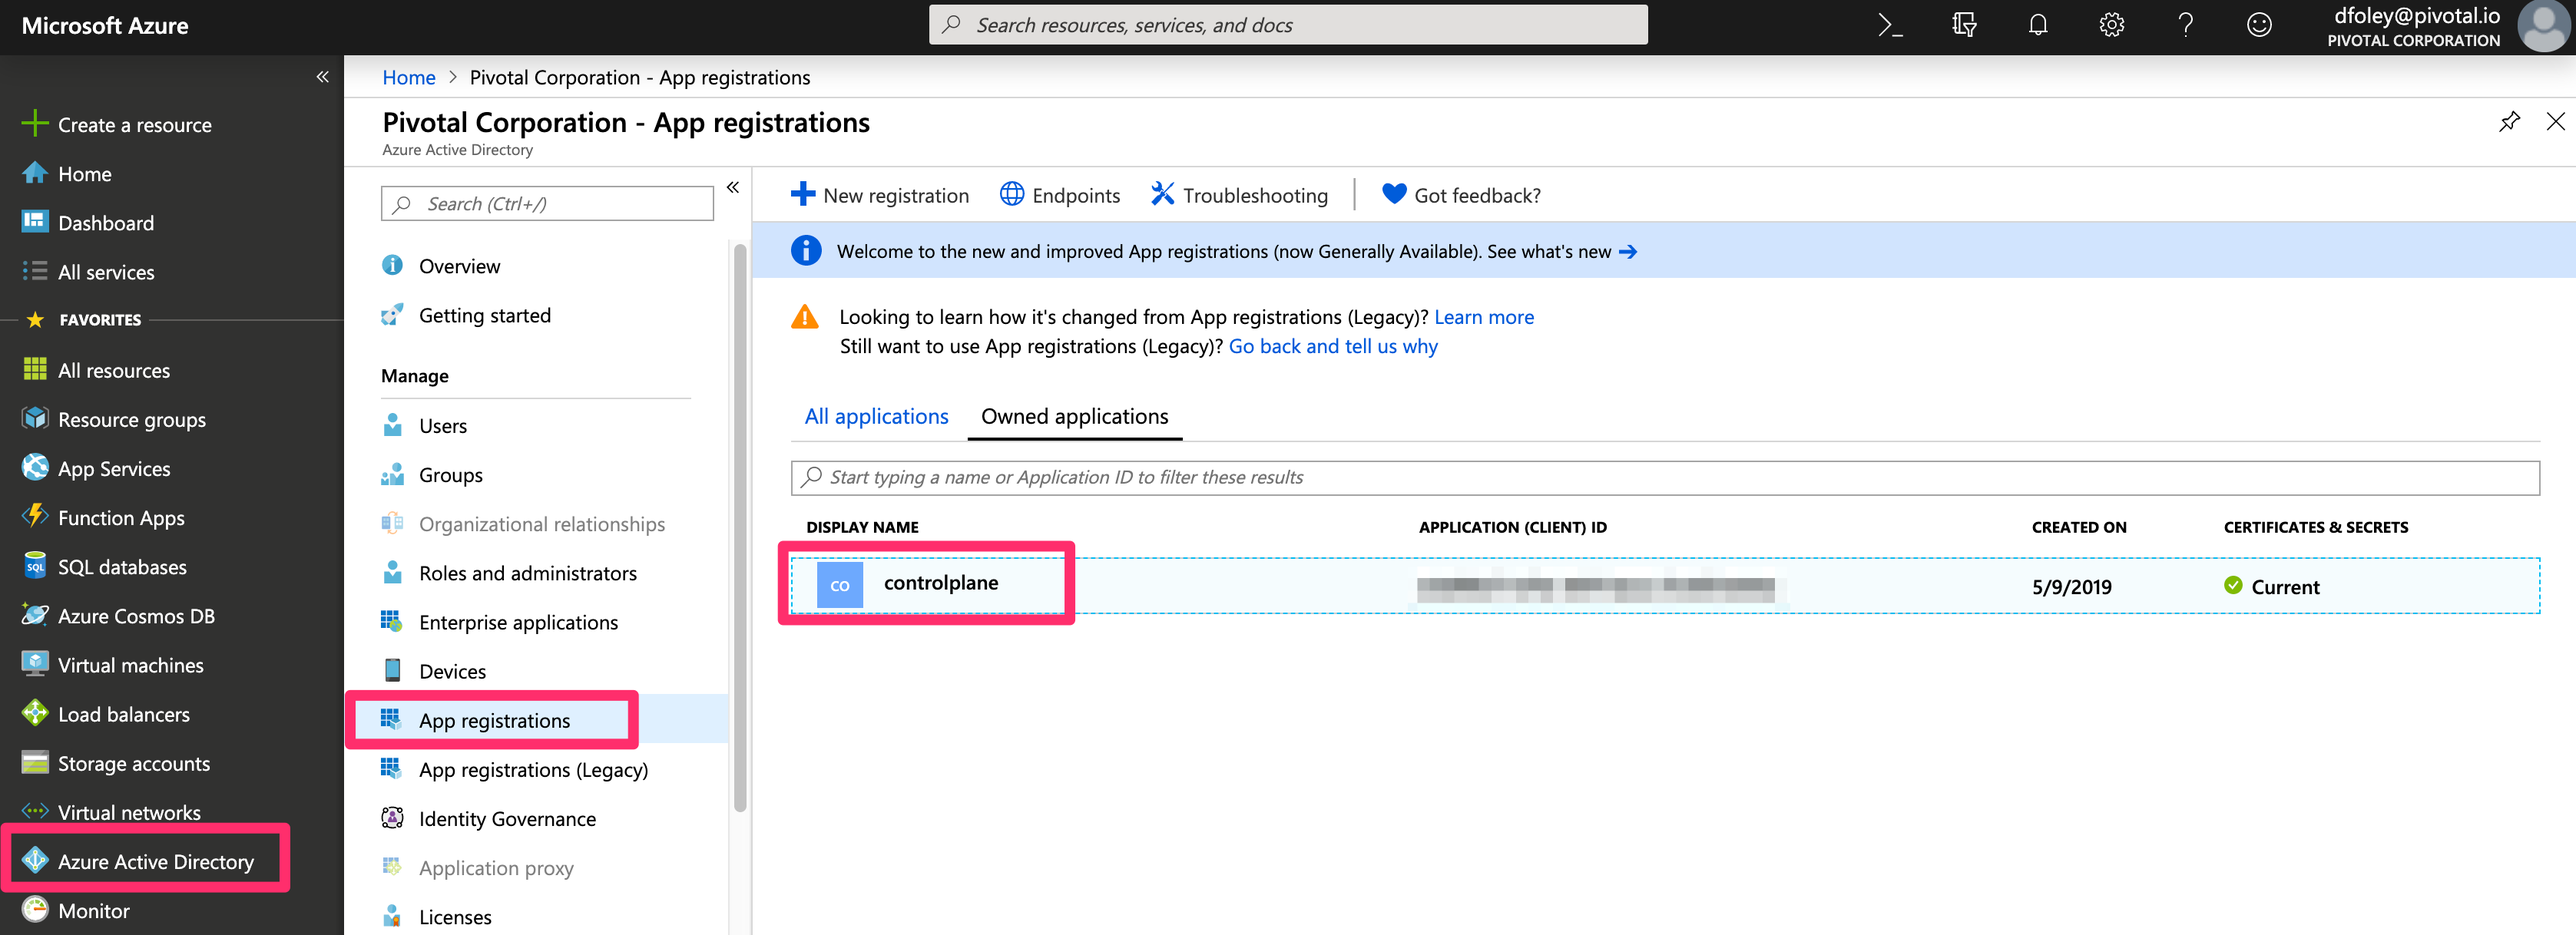
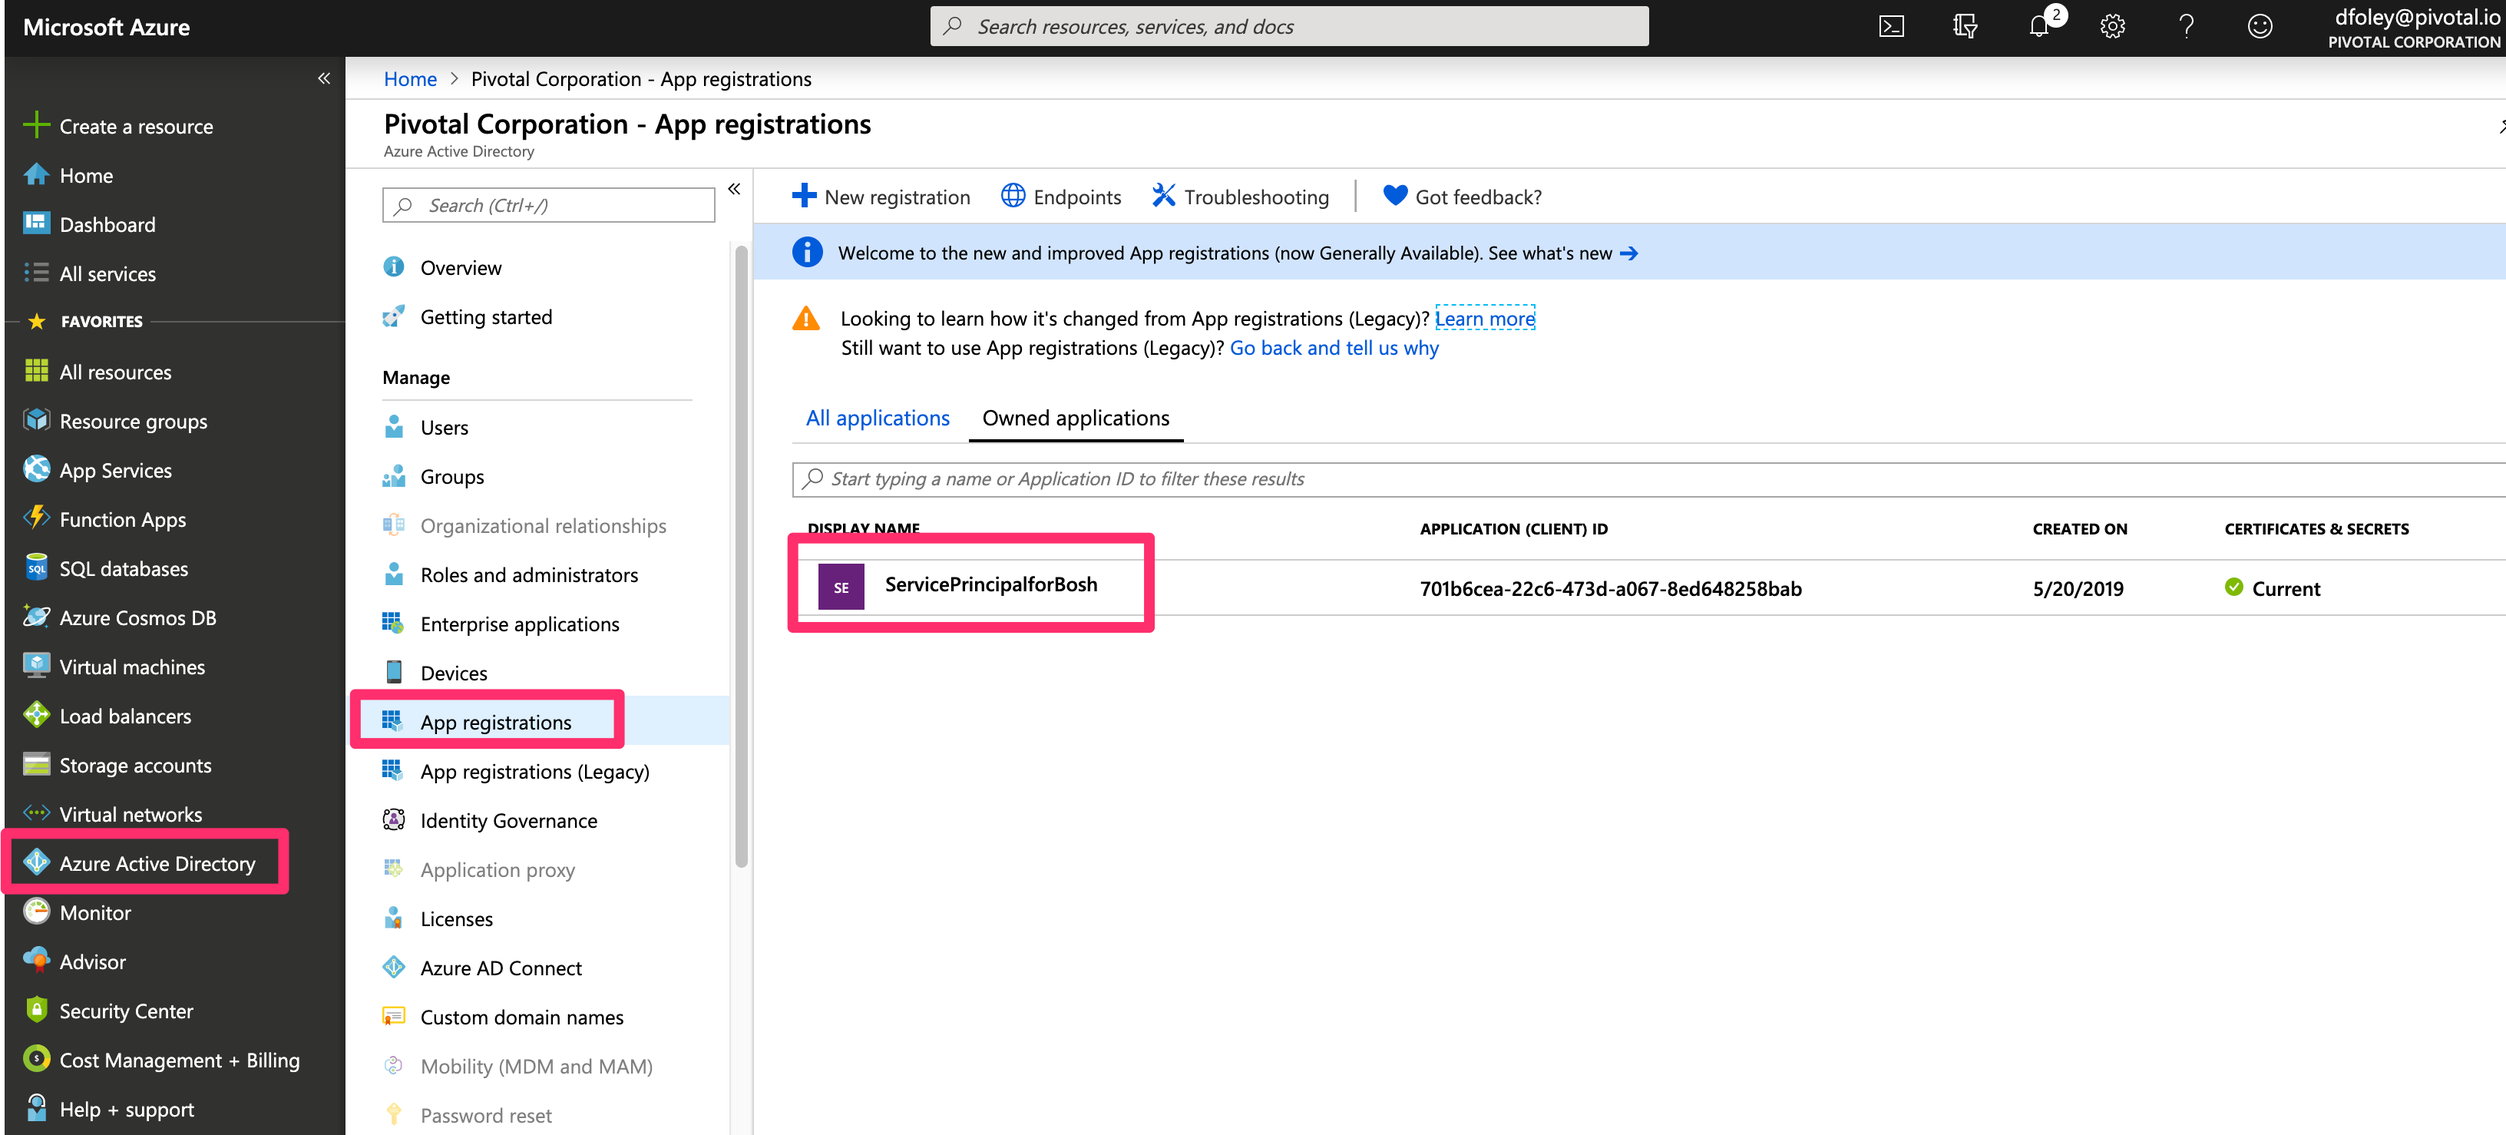
Added lab to connect to concourse both via UI and fly

diff --git a/README.md b/README.md
@@ -3,18 +3,22 @@ Update: May 9, 2019
 
 ## Introduction
 
-This workshop will walk you through the process of deploying **Pivotal Cloud Foundry (PCF)** on **Microsoft Azure**. We will stand up **Concourse** using **Pivotal Control Plane** and deploy PCF using **Platform Automation**.
+This workshop will walk you through the process of deploying **Pivotal Cloud Foundry (PCF)** on **Microsoft Azure**. We will stand up **Concourse** using **Pivotal Control Plane** and deploy PCF using **Platform Automation**. For complete documentation check out [Pivotal Control Plane](https://control-plane-docs.cfapps.io/)
 
 ***To log issues***, click here to go to the [github](https://github.com/dfoleypivotal/azure-platform-automation-example/issues) repository issue submission form.
 
 ## Objectives
 
 - [Install Pivotal Control Plane](#install)
+- [Login to Concourse](#concourse)
 
 ## Required Artifacts
 
 - The following lab requires a Microsoft Azure account.
 - A registered domain name is required to deploy PCF.
+- [Terraform](https://www.terraform.io/downloads.html)
+- [OM CLI](https://github.com/pivotal-cf/om)
+- [BOSH CLI](https://github.com/cloudfoundry/bosh-cli/releases)
 
 <a id="install"></a>
 
@@ -22,7 +26,7 @@ This workshop will walk you through the process of deploying **Pivotal Cloud Fou
 
 ### **STEP 1**: Clone Terraform template repository
 
-- Open a terminal window and change to working directory. For documentation working directory location will be /Users/dfoley/development/Azure.
+- Open a terminal window and change to working directory. For documentation, working directory location will be `/Users/dfoley/development/Azure`.
 
 ```bash
 cd /Users/dfoley/development/Azure
@@ -56,42 +60,28 @@ az account list
 
 **Note:** Copy **Id** an **Tenant Id** as these values will be used later in the lab.
 
-- To create the automation account, you need **az-automation**. You can use brew or go to the [releases](https://github.com/genevieve/az-automation/releases) and get the necessary binary.
+- Create Service Account for Bosh. For more details please view [Azure Documentation](https://docs.microsoft.com/en-us/cli/azure/ad/sp?view=azure-cli-latest)
 
 ```bash
-brew tap genevieve/tap
-brew install az-automation
+az ad sp create-for-rbac --name ServicePrincipalforBosh
 ```
 
-![](images/image3.png)
+![](images/image2.5.png)
 
-- Run the following command. Replace **`<your subscription id>`** with your **subscription id** and create a unique **`identifier-uri`**.
 
-```bash
-az-automation \
-  --account <your subscription id> \
-  --identifier-uri http://example.com \
-  --display-name controlplane \
-  --credential-output-file controlplane-credentials.tfvars
-  ```
-
-![](images/image4.png)
-
-- If you want to verify that the service principal was create you can login to the Azure Console. Click **Azure Active Directory** then **App registrations** and you will see the new **controlplane** application was created.
+- If you want to verify that the service principal was create you can login to the Azure Console. Click **Azure Active Directory** then **App registrations** and you will see the new **ServicePrincipalforBosh** application was created.
 
     ![](images/image5.png)
 
 ### **STEP 3**: Pave IaaS using Terraform
 
-- Next step
-
-- Using the values from the file **controlplane-credentials.tfvars** populate the **terraform.tfvars** file with the content below.
+- Using the output from the previous step create and populate the **terraform.tfvars** file with the content below.
 
 ```bash
-subscription_id = "some-subscription-id"
-tenant_id       = "some-tenant-id"
-client_id       = "some-client-id"
-client_secret   = "some-client-secret"
+subscription_id = "Your Subscription Id"
+tenant_id       = "Your Tenant ID"
+client_id       = "appId from previous call"
+client_secret   = "password from previous call"
 
 env_name              = "controlplane"
 ops_manager_image_uri = "https://opsmanagerwestus.blob.core.windows.net/images/ops-manager-2.4-build.192.vhd"
@@ -213,35 +203,6 @@ bosh upload-release uaa-release-*.tgz
 
 ![](images/image17.png)
 
-- Add a custom vm extension that includes details of your IAAS specific load balancer configuration.
-
-- Create a vars file called **vm-extension-vars.yml** with the following content:
-
-```vi
----
-"control-plane-lb": controlplane-lb
-```
-
-- Create a config file called **vm-extension.yml**:
-
-```vi
-vm-extension-config:
-  name: control-plane-lb
-  cloud_properties:
-   security_group: controlplane-plane-security-group
-   load_balancer: ((control-plane-lb))
-```
-
-- Create and apply the custom extension with om
-
-```bash
-om --skip-ssl-validation create-vm-extension \
-  --config vm-extension.yml \
-  --vars-file vm-extension-vars.yml
-
-om --skip-ssl-validation apply-changes
-```
-
 - Retrieve the Control Plane domain and availability zones from Terraform.
 
 ```bash
@@ -253,11 +214,11 @@ export CONTROL_PLANE_ROOT_DOMAIN="$(terraform output control_plane_domain)"
 ```vi
 ---
 external_url: https://plane.pcfcontrolplane.<your domain>
-persistent_disk_type: 10240
-vm_type: Standard_DS2_v2
+persistent_disk_type: 1048576
+vm_type: Standard_F4s
 azs: ["null"]
 network_name: control-plane
-wildcard_domain: "*.pcfcontrolplane.<your domain>"
+wildcard_domain: "plane.pcfcontrolplane.<your domain>"
 uaa_url: https://uaa.pcfcontrolplane.<your domain>
 uaa_ca_cert: |
   $(credhub get -n /p-bosh/control-plane/control-plane-tls -k certificate | awk ‘{printf “%s\r\n  “, $0}’)
@@ -281,6 +242,81 @@ bosh deploy -d control-plane control-plane-*.yml \
 ```
 
 ![](images/image18.png)
+
+
+- Run the following command to verify that the deployment instances are running:
+
+```bash
+bosh instances -d control-plane
+```
+
+![](images/image19.png)
+
+<a id="concourse"></a>
+
+## Login to Control Plane
+
+### **STEP 6**: Login to Control Plane UI
+
+- You should also be logged into credhub if you have used the **om bosh-env eval** line from above. This allows you to easily get the credential we need to test the login of our control-plane.
+
+```bash
+credhub get -n $(credhub find | grep uaa_users_admin | awk '{print $3}')
+```
+
+![](images/image20.png)
+
+- From any browser, access Concourse UI using URL defined by:
+
+```bash
+echo https://"$(terraform output control_plane_domain)"
+```
+
+![](images/image21.png)
+
+![](images/image22.png)
+
+- CLick **login** in the upper right hand corner.
+
+- Enter **admin** for the `username`, and the password retrieved from Credhub as the `password` and click **SIGN IN**.
+
+  ![](images/image23.png)
+
+- Click **Authorize** 
+
+**Note:** If the redirect fails, refresh the browser and click login again
+
+  ![](images/image24.png)
+
+### **STEP 7**: Login using FLY CLI
+
+- login to Concourse using the main team. You wiReplace **password** with value retrieved from Credhub.
+
+**Note:** You will be ask to authenticate via the browser. Copy the URL into your browser. Since we already authenticated in previous step you should not be ask to login.
+
+```bash
+fly login --target main -k -c https://$(terraform output control_plane_domain)
+```
+
+![](images/image25.png)
+
+
+- After authenticating into Concourse, Create a team name **dev** for development pipelines..
+
+```bash
+fly set-team -t main -n dev --allow-all-users
+```
+
+![](images/image26.png)
+
+- Login to the new team:
+
+```bash
+fly login --target dev -k -c https://$(terraform output control_plane_domain)
+```
+
+![](images/image27.png)
+
 
 
 
